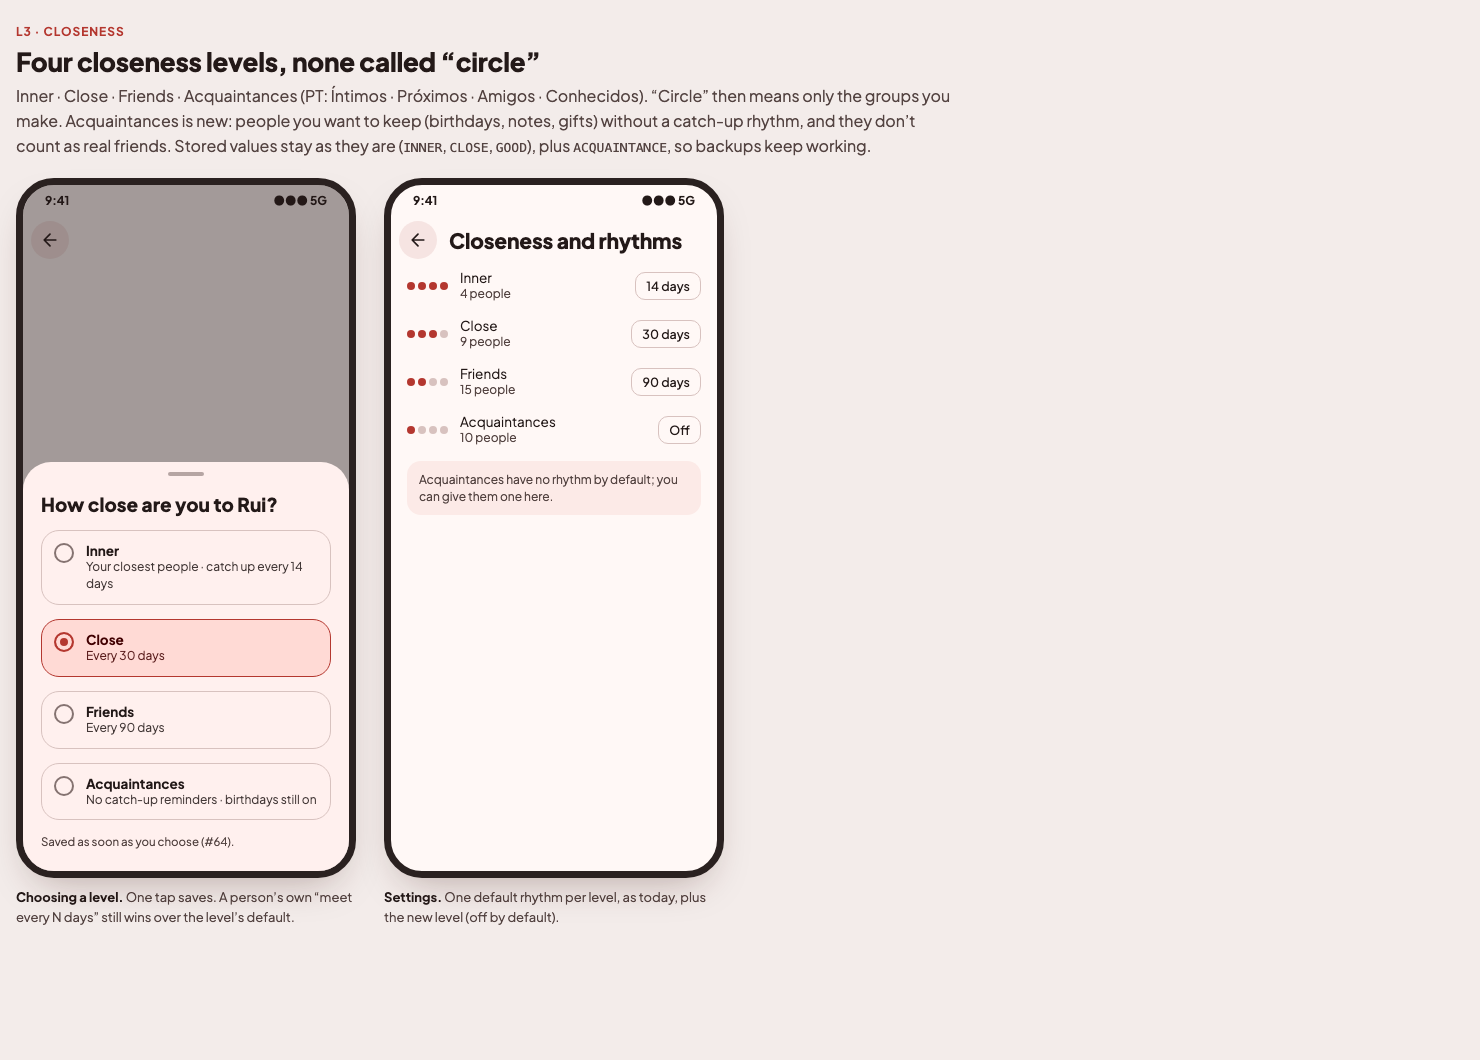
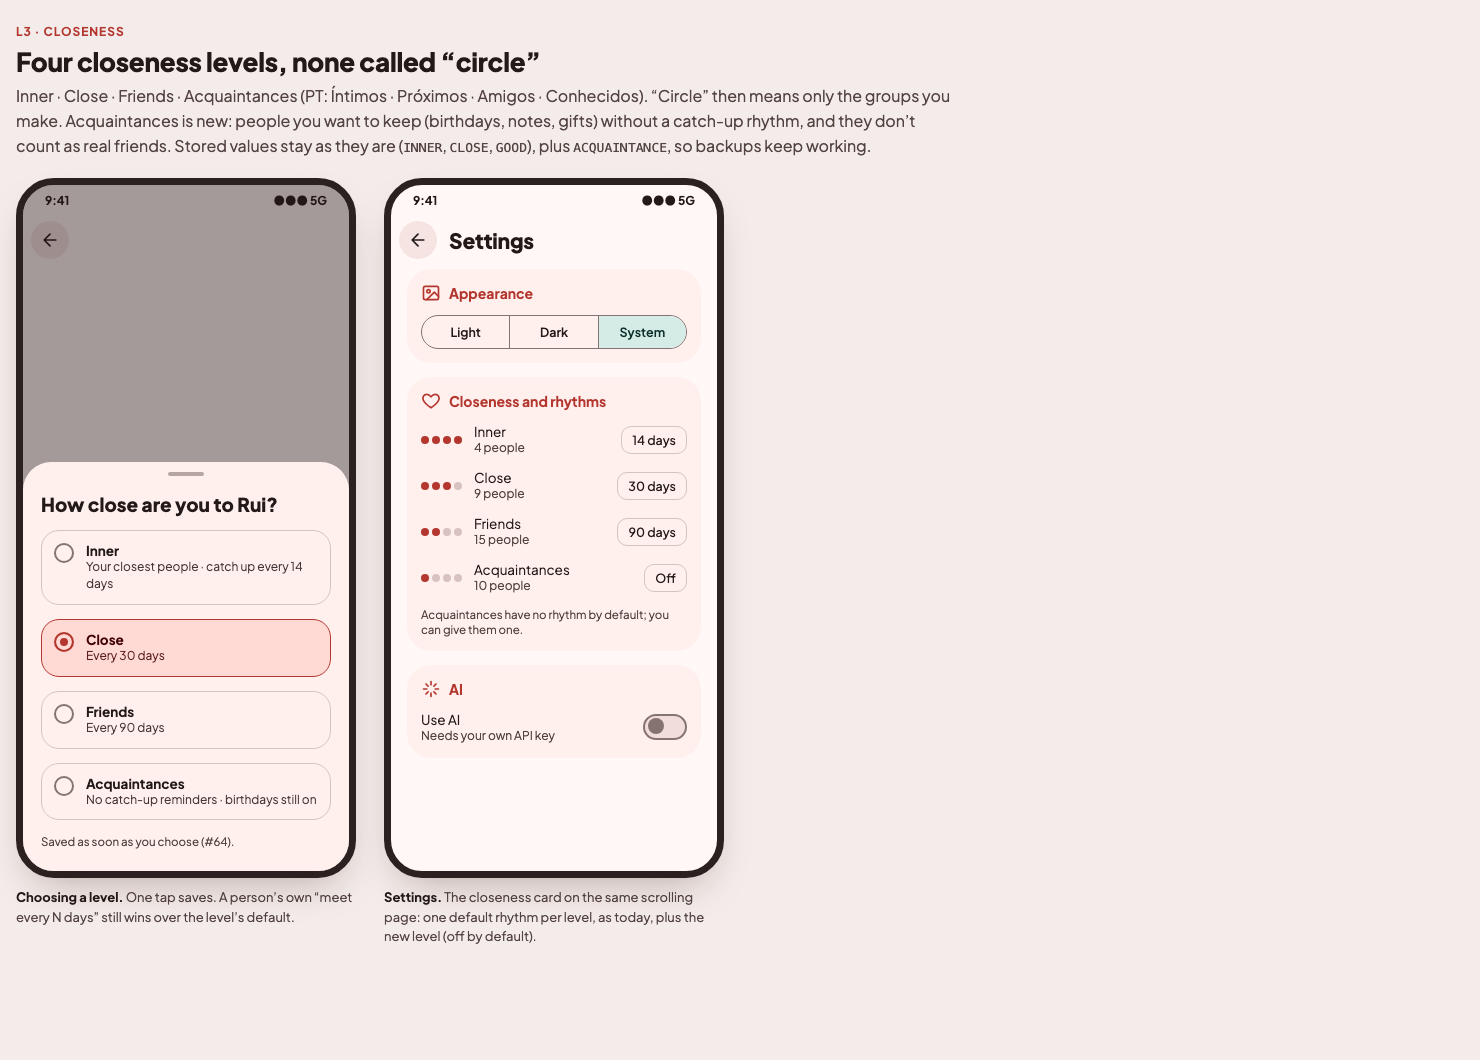
docs(mockups): Settings stays one scrolling page, with your photo

diff --git a/docs/mockups/v1-layout/index.html b/docs/mockups/v1-layout/index.html
@@ -269,6 +269,10 @@ body.solo .wrap{max-width:1480px}
 .qa span{width:46px;height:46px;border-radius:16px;background:var(--secondary-c);color:var(--on-secondary-c);display:grid;place-items:center}
 .chip.add{border-style:dashed;color:var(--primary);border-color:var(--primary)}
 .chip .x{width:13px;height:13px;stroke-width:2.5}
+.me{width:38px;height:38px;border-radius:50%;flex:none;background:radial-gradient(circle at 50% 38%,#F6D2B8 0 26%,transparent 27%),radial-gradient(circle at 50% 100%,#3F6560 0 46%,transparent 47%),linear-gradient(135deg,#E9A26B,#B5523B);box-shadow:0 0 0 2px var(--bg),0 0 0 3.5px var(--outline-v)}
+.me.xl{width:84px;height:84px;box-shadow:0 0 0 3px var(--s-low),0 0 0 5px var(--primary)}
+.sc{background:var(--s-low);border-radius:24px;padding:14px;display:flex;flex-direction:column;gap:12px}
+.sc .h{display:flex;align-items:center;gap:8px;font-weight:700;font-size:14px;color:var(--primary)}
 .toast{position:absolute;left:12px;right:12px;bottom:84px;background:#3D3231;color:#FCEAE7;border-radius:12px;padding:12px 14px;font-size:13px;display:flex;justify-content:space-between}
 .toast b{color:#FFB4A9}
 </style>
@@ -330,21 +334,21 @@ body.solo .wrap{max-width:1480px}
 <div class="wrap">
 <header class="top">
   <h1>Good Company · new layout</h1>
-  <p>Proposal for review (2026-11-14). Today the bar is Friends · Together · Coming up · Ideas · Settings, and three of those tabs are mostly lists of people, while circles, gift lists, “Your people” and the network map sit at the end of lists or in the ⋮ menu. This sheet proposes four tabs, <b>Today · People · Circles · Plans</b>, with Settings moved to a gear in every tab’s header, four closeness levels without the word “circle”, a card that asks when you last saw someone instead of listing everyone as overdue, and circle chips on a person’s page. Colours, type and components are the app’s own; sample people are the demo set. These are proposals, not renders of the real app.</p>
+  <p>Proposal for review (2026-11-14). Today the bar is Friends · Together · Coming up · Ideas · Settings, and three of those tabs are mostly lists of people, while circles, gift lists, “Your people” and the network map sit at the end of lists or in the ⋮ menu. This sheet proposes four tabs, <b>Today · People · Circles · Plans</b>, with Settings (still one scrolling page) reached from your photo in every tab’s header, four closeness levels without the word “circle”, a card that asks when you last saw someone instead of listing everyone as overdue, and circle chips on a person’s page. Colours, type and components are the app’s own; sample people are the demo set. These are proposals, not renders of the real app.</p>
   <nav class="toc" aria-label="Mockups">
-    <a href="#tabs">L1 · Four tabs</a><a href="#today">L2 · Today, last-seen card, Settings</a><a href="#closeness">L3 · Four closeness levels</a><a href="#circles">L4 · Circles on a person’s page</a>
+    <a href="#tabs">L1 · Four tabs</a><a href="#today">L2 · Today, last-seen card, Settings &amp; your photo</a><a href="#closeness">L3 · Four closeness levels</a><a href="#circles">L4 · Circles on a person’s page</a>
   </nav>
 </header>
 
 <!-- ================= L1 TABS ================= -->
 <section class="issue" id="tabs">
   <div class="issue-h"><span class="tag">L1 · navigation</span><h2>Four tabs that each do one job</h2>
-  <p><b>Today</b> is what needs you now (it absorbs Coming up and the catch-up parts of Friends and Together). <b>People</b> is the one list of everyone, sorted by closeness (the F5 proposal), with “Your people” on top. <b>Circles</b> brings the circles out of the bottom of Together. <b>Plans</b> holds plans, gift lists, “Who’s free for…?” and, with AI on, the weekly ideas, so there is no AI-only tab coming and going. Settings is the gear at the top right.</p></div>
+  <p><b>Today</b> is what needs you now (it absorbs Coming up and the catch-up parts of Friends and Together). <b>People</b> is the one list of everyone, sorted by closeness (the F5 proposal), with “Your people” on top. <b>Circles</b> brings the circles out of the bottom of Together. <b>Plans</b> holds plans, gift lists, “Who’s free for…?” and, with AI on, the weekly ideas, so there is no AI-only tab coming and going. Settings is your photo at the top right.</p></div>
   <div class="screens">
 
   <figure><div class="phone">
     <div class="sb"><span>9:41</span><span>●●● 5G</span></div>
-    <div class="topbar"><h3>Today</h3><span class="ib"><svg class="ic"><use href="#i-search"/></svg></span><span class="ib" aria-label="Settings"><svg class="ic"><use href="#i-gear"/></svg></span></div>
+    <div class="topbar"><h3>Today</h3><span class="ib"><svg class="ic"><use href="#i-search"/></svg></span><span class="me" aria-label="You and Settings"></span></div>
     <div class="scroll">
       <div class="cta"><div><div class="t1">I’m with…</div><div class="t2">Log who you’re with now</div></div><span class="go"><svg class="ic"><use href="#i-plus"/></svg></span></div>
       <div class="day">This week</div>
@@ -366,7 +370,7 @@ body.solo .wrap{max-width:1480px}
 
   <figure><div class="phone">
     <div class="sb"><span>9:41</span><span>●●● 5G</span></div>
-    <div class="topbar"><h3>People</h3><span class="ib"><svg class="ic"><use href="#i-search"/></svg></span><span class="ib"><svg class="ic"><use href="#i-more"/></svg></span><span class="ib"><svg class="ic"><use href="#i-gear"/></svg></span></div>
+    <div class="topbar"><h3>People</h3><span class="ib"><svg class="ic"><use href="#i-search"/></svg></span><span class="ib"><svg class="ic"><use href="#i-more"/></svg></span><span class="me" aria-label="You and Settings"></span></div>
     <div class="scroll">
       <div class="card">
         <div class="card-h"><span class="badge"><svg class="ic"><use href="#i-chart"/></svg></span>Your people<span class="more">Open</span></div>
@@ -386,7 +390,7 @@ body.solo .wrap{max-width:1480px}
 
   <figure><div class="phone">
     <div class="sb"><span>9:41</span><span>●●● 5G</span></div>
-    <div class="topbar"><h3>Circles</h3><span class="ib"><svg class="ic"><use href="#i-plus"/></svg></span><span class="ib"><svg class="ic"><use href="#i-search"/></svg></span><span class="ib" aria-label="Settings"><svg class="ic"><use href="#i-gear"/></svg></span></div>
+    <div class="topbar"><h3>Circles</h3><span class="ib"><svg class="ic"><use href="#i-plus"/></svg></span><span class="ib"><svg class="ic"><use href="#i-search"/></svg></span><span class="me" aria-label="You and Settings"></span></div>
     <div class="scroll">
       <div class="ccard" style="background:var(--c-teal)"><div class="row"><span style="font-size:22px">🧗</span><div class="grow"><div class="t1">Climbing</div><div class="t2">6 people · last time 9 days ago</div></div></div><div class="row"><div class="stack"><div class="av sm a">IR</div><div class="av sm b">JP</div><div class="av sm r">BC</div></div><span class="grow"></span><span class="pillb">We met</span></div></div>
       <div class="ccard" style="background:var(--c-purple)"><div class="row"><span style="font-size:22px">🎵</span><div class="grow"><div class="t1">Choir</div><div class="t2">16 people · rehearsal every Tuesday</div></div></div><div class="row"><div class="stack"><div class="av sm b">JP</div><div class="av sm m">MC</div><div class="av sm t">GC</div></div><span class="grow"></span><span class="pillb">We met</span></div></div>
@@ -401,7 +405,7 @@ body.solo .wrap{max-width:1480px}
 
   <figure><div class="phone">
     <div class="sb"><span>9:41</span><span>●●● 5G</span></div>
-    <div class="topbar"><h3>Plans</h3><span class="ib"><svg class="ic"><use href="#i-plus"/></svg></span><span class="ib"><svg class="ic"><use href="#i-search"/></svg></span><span class="ib" aria-label="Settings"><svg class="ic"><use href="#i-gear"/></svg></span></div>
+    <div class="topbar"><h3>Plans</h3><span class="ib"><svg class="ic"><use href="#i-plus"/></svg></span><span class="ib"><svg class="ic"><use href="#i-search"/></svg></span><span class="me" aria-label="You and Settings"></span></div>
     <div class="scroll">
       <div class="lbl">Coming up</div>
       <div class="card">
@@ -425,13 +429,13 @@ body.solo .wrap{max-width:1480px}
 
 <!-- ================= L2 TODAY ================= -->
 <section class="issue" id="today">
-  <div class="issue-h"><span class="tag">L2 · Today</span><h2>Today, the last-seen card, and where Settings went</h2>
+  <div class="issue-h"><span class="tag">L2 · Today</span><h2>Today, the last-seen card, and Settings with your photo</h2>
   <p>Today a person with no meetup logged counts as overdue from today, so Coming up lists everyone. People with nothing logged stop counting as overdue. Instead one card asks, one person at a time, when you last saw them. The answer is an approximate date that only starts their rhythm; it is not a meetup and doesn’t show on the timeline.</p></div>
   <div class="screens">
 
   <figure><div class="phone">
     <div class="sb"><span>9:41</span><span>●●● 5G</span></div>
-    <div class="topbar"><h3>Today</h3><span class="ib"><svg class="ic"><use href="#i-search"/></svg></span><span class="ib" aria-label="Settings"><svg class="ic"><use href="#i-gear"/></svg></span></div>
+    <div class="topbar"><h3>Today</h3><span class="ib"><svg class="ic"><use href="#i-search"/></svg></span><span class="me" aria-label="You and Settings"></span></div>
     <div class="scroll">
       <div class="card" style="background:var(--primary-c);color:var(--on-primary-c)">
         <div class="row"><div class="av r">RS</div><div class="grow"><div class="t1">When did you last see Rui?</div><div class="t2" style="color:inherit;opacity:.8">Close · added from contacts · 1 of 12</div></div></div>
@@ -453,13 +457,18 @@ body.solo .wrap{max-width:1480px}
     <div class="sb"><span>9:41</span><span>●●● 5G</span></div>
     <div class="topbar"><span class="ib"><svg class="ic"><use href="#i-back"/></svg></span><h3>Settings</h3></div>
     <div class="scroll">
-      <div class="trow"><svg class="ic"><use href="#i-heart"/></svg><div class="grow">Closeness and rhythms<small>Inner every 14 days · Close 30 · Friends 90</small></div><svg class="ic"><use href="#i-chev"/></svg></div>
-      <div class="trow"><svg class="ic"><use href="#i-bell"/></svg><div class="grow">Notifications<small>Weekly digest · birthdays</small></div><svg class="ic"><use href="#i-chev"/></svg></div>
-      <div class="trow"><svg class="ic"><use href="#i-spark"/></svg><div class="grow">AI<small>Off</small></div><svg class="ic"><use href="#i-chev"/></svg></div>
-      <div class="trow"><svg class="ic"><use href="#i-tag"/></svg><div class="grow">Tags, activities, places</div><svg class="ic"><use href="#i-chev"/></svg></div>
-      <div class="trow"><svg class="ic"><use href="#i-lock"/></svg><div class="grow">Backup and app lock</div><svg class="ic"><use href="#i-chev"/></svg></div>
+      <div class="sc" style="align-items:center;text-align:center">
+        <div class="avwrap"><span class="me xl" style="display:block"></span><span class="camb"><svg class="ic"><use href="#i-camera"/></svg></span></div>
+        <div class="t2" style="font-size:12.5px;color:var(--muted)">Your photo · shown in the header, at the centre of your network map and on your year in review</div>
+        <div class="btnrow" style="width:100%"><span class="btn out">Change</span><span class="btn out">Remove</span></div>
+      </div>
+      <div class="sc"><div class="h"><svg class="ic"><use href="#i-image"/></svg>Appearance</div><div class="seg"><div>Light</div><div>Dark</div><div class="on">System</div></div></div>
+      <div class="sc"><div class="h"><svg class="ic"><use href="#i-heart"/></svg>Closeness and rhythms</div>
+        <div class="trow"><div class="grow">Inner</div><span class="chip">14 days</span></div>
+        <div class="trow"><div class="grow">Close</div><span class="chip">30 days</span></div>
+      </div>
     </div>
-  </div><figcaption><b>Settings without a tab.</b> The gear at the top right of every tab opens Settings as a normal screen with a back arrow. The tab slot goes to Circles. Deep links and the web’s <code>?tab=settings</code> open the same screen.</figcaption></figure>
+  </div><figcaption><b>Settings stays one scrolling page.</b> Same section cards as today, reached from your photo at the top right of every tab (a gear while there is no photo). New first card: <b>your photo</b>, picked from the gallery with the same crop editor as a friend’s photo (#36); Remove goes back to the gear.</figcaption></figure>
   </div>
 </section>
 
@@ -486,15 +495,13 @@ body.solo .wrap{max-width:1480px}
 
   <figure><div class="phone">
     <div class="sb"><span>9:41</span><span>●●● 5G</span></div>
-    <div class="topbar"><span class="ib"><svg class="ic"><use href="#i-back"/></svg></span><h3>Closeness and rhythms</h3></div>
+    <div class="topbar"><span class="ib"><svg class="ic"><use href="#i-back"/></svg></span><h3>Settings</h3></div>
     <div class="scroll">
-      <div class="trow"><div class="dots"><i class="f"></i><i class="f"></i><i class="f"></i><i class="f"></i></div><div class="grow">Inner<small>4 people</small></div><span class="chip">14 days</span></div>
-      <div class="trow"><div class="dots"><i class="f"></i><i class="f"></i><i class="f"></i><i></i></div><div class="grow">Close<small>9 people</small></div><span class="chip">30 days</span></div>
-      <div class="trow"><div class="dots"><i class="f"></i><i class="f"></i><i></i><i></i></div><div class="grow">Friends<small>15 people</small></div><span class="chip">90 days</span></div>
-      <div class="trow"><div class="dots"><i class="f"></i><i></i><i></i><i></i></div><div class="grow">Acquaintances<small>10 people</small></div><span class="chip">Off</span></div>
-      <div class="note">Acquaintances have no rhythm by default; you can give them one here.</div>
+      <div class="sc"><div class="h"><svg class="ic"><use href="#i-image"/></svg>Appearance</div><div class="seg"><div>Light</div><div>Dark</div><div class="on">System</div></div></div>
+      <div class="sc"><div class="h"><svg class="ic"><use href="#i-heart"/></svg>Closeness and rhythms</div><div class="trow"><div class="dots"><i class="f"></i><i class="f"></i><i class="f"></i><i class="f"></i></div><div class="grow">Inner<small>4 people</small></div><span class="chip">14 days</span></div><div class="trow"><div class="dots"><i class="f"></i><i class="f"></i><i class="f"></i><i></i></div><div class="grow">Close<small>9 people</small></div><span class="chip">30 days</span></div><div class="trow"><div class="dots"><i class="f"></i><i class="f"></i><i></i><i></i></div><div class="grow">Friends<small>15 people</small></div><span class="chip">90 days</span></div><div class="trow"><div class="dots"><i class="f"></i><i></i><i></i><i></i></div><div class="grow">Acquaintances<small>10 people</small></div><span class="chip">Off</span></div><div class="hint">Acquaintances have no rhythm by default; you can give them one.</div></div>
+      <div class="sc"><div class="h"><svg class="ic"><use href="#i-spark"/></svg>AI</div><div class="trow"><div class="grow">Use AI<small>Needs your own API key</small></div><span class="switch off"></span></div></div>
     </div>
-  </div><figcaption><b>Settings.</b> One default rhythm per level, as today, plus the new level (off by default).</figcaption></figure>
+  </div><figcaption><b>Settings.</b> The closeness card on the same scrolling page: one default rhythm per level, as today, plus the new level (off by default).</figcaption></figure>
   </div>
 </section>
 
